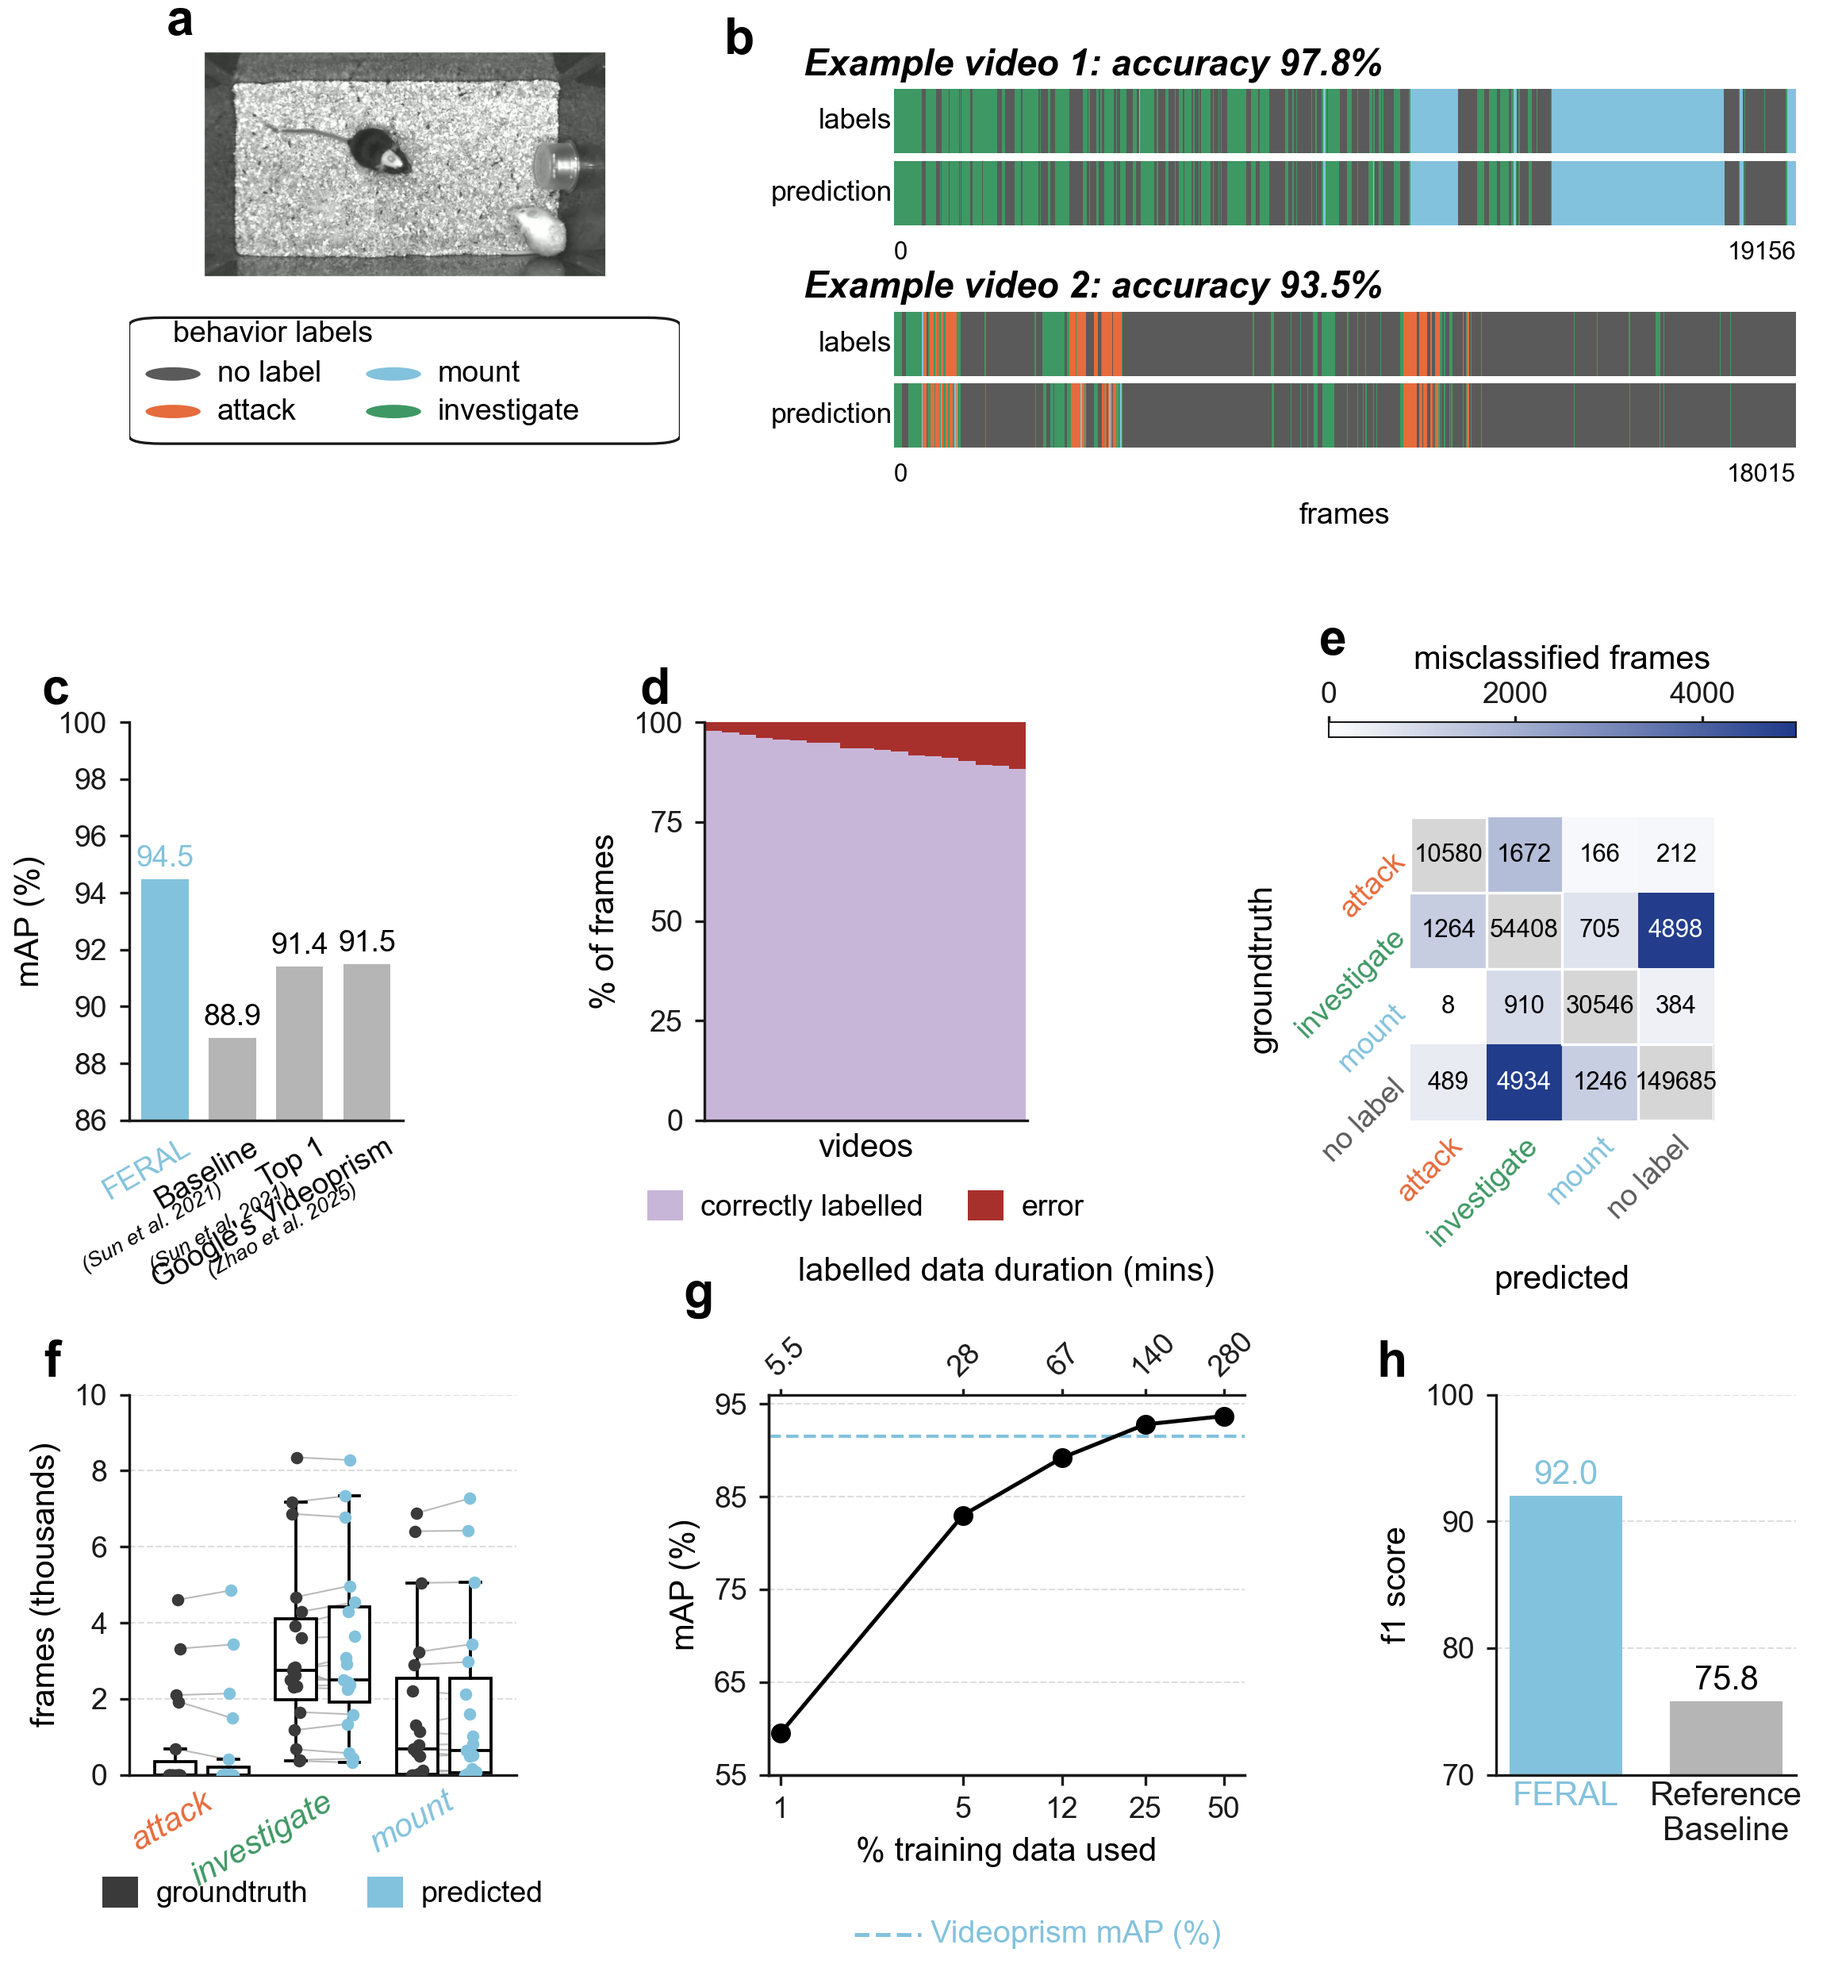
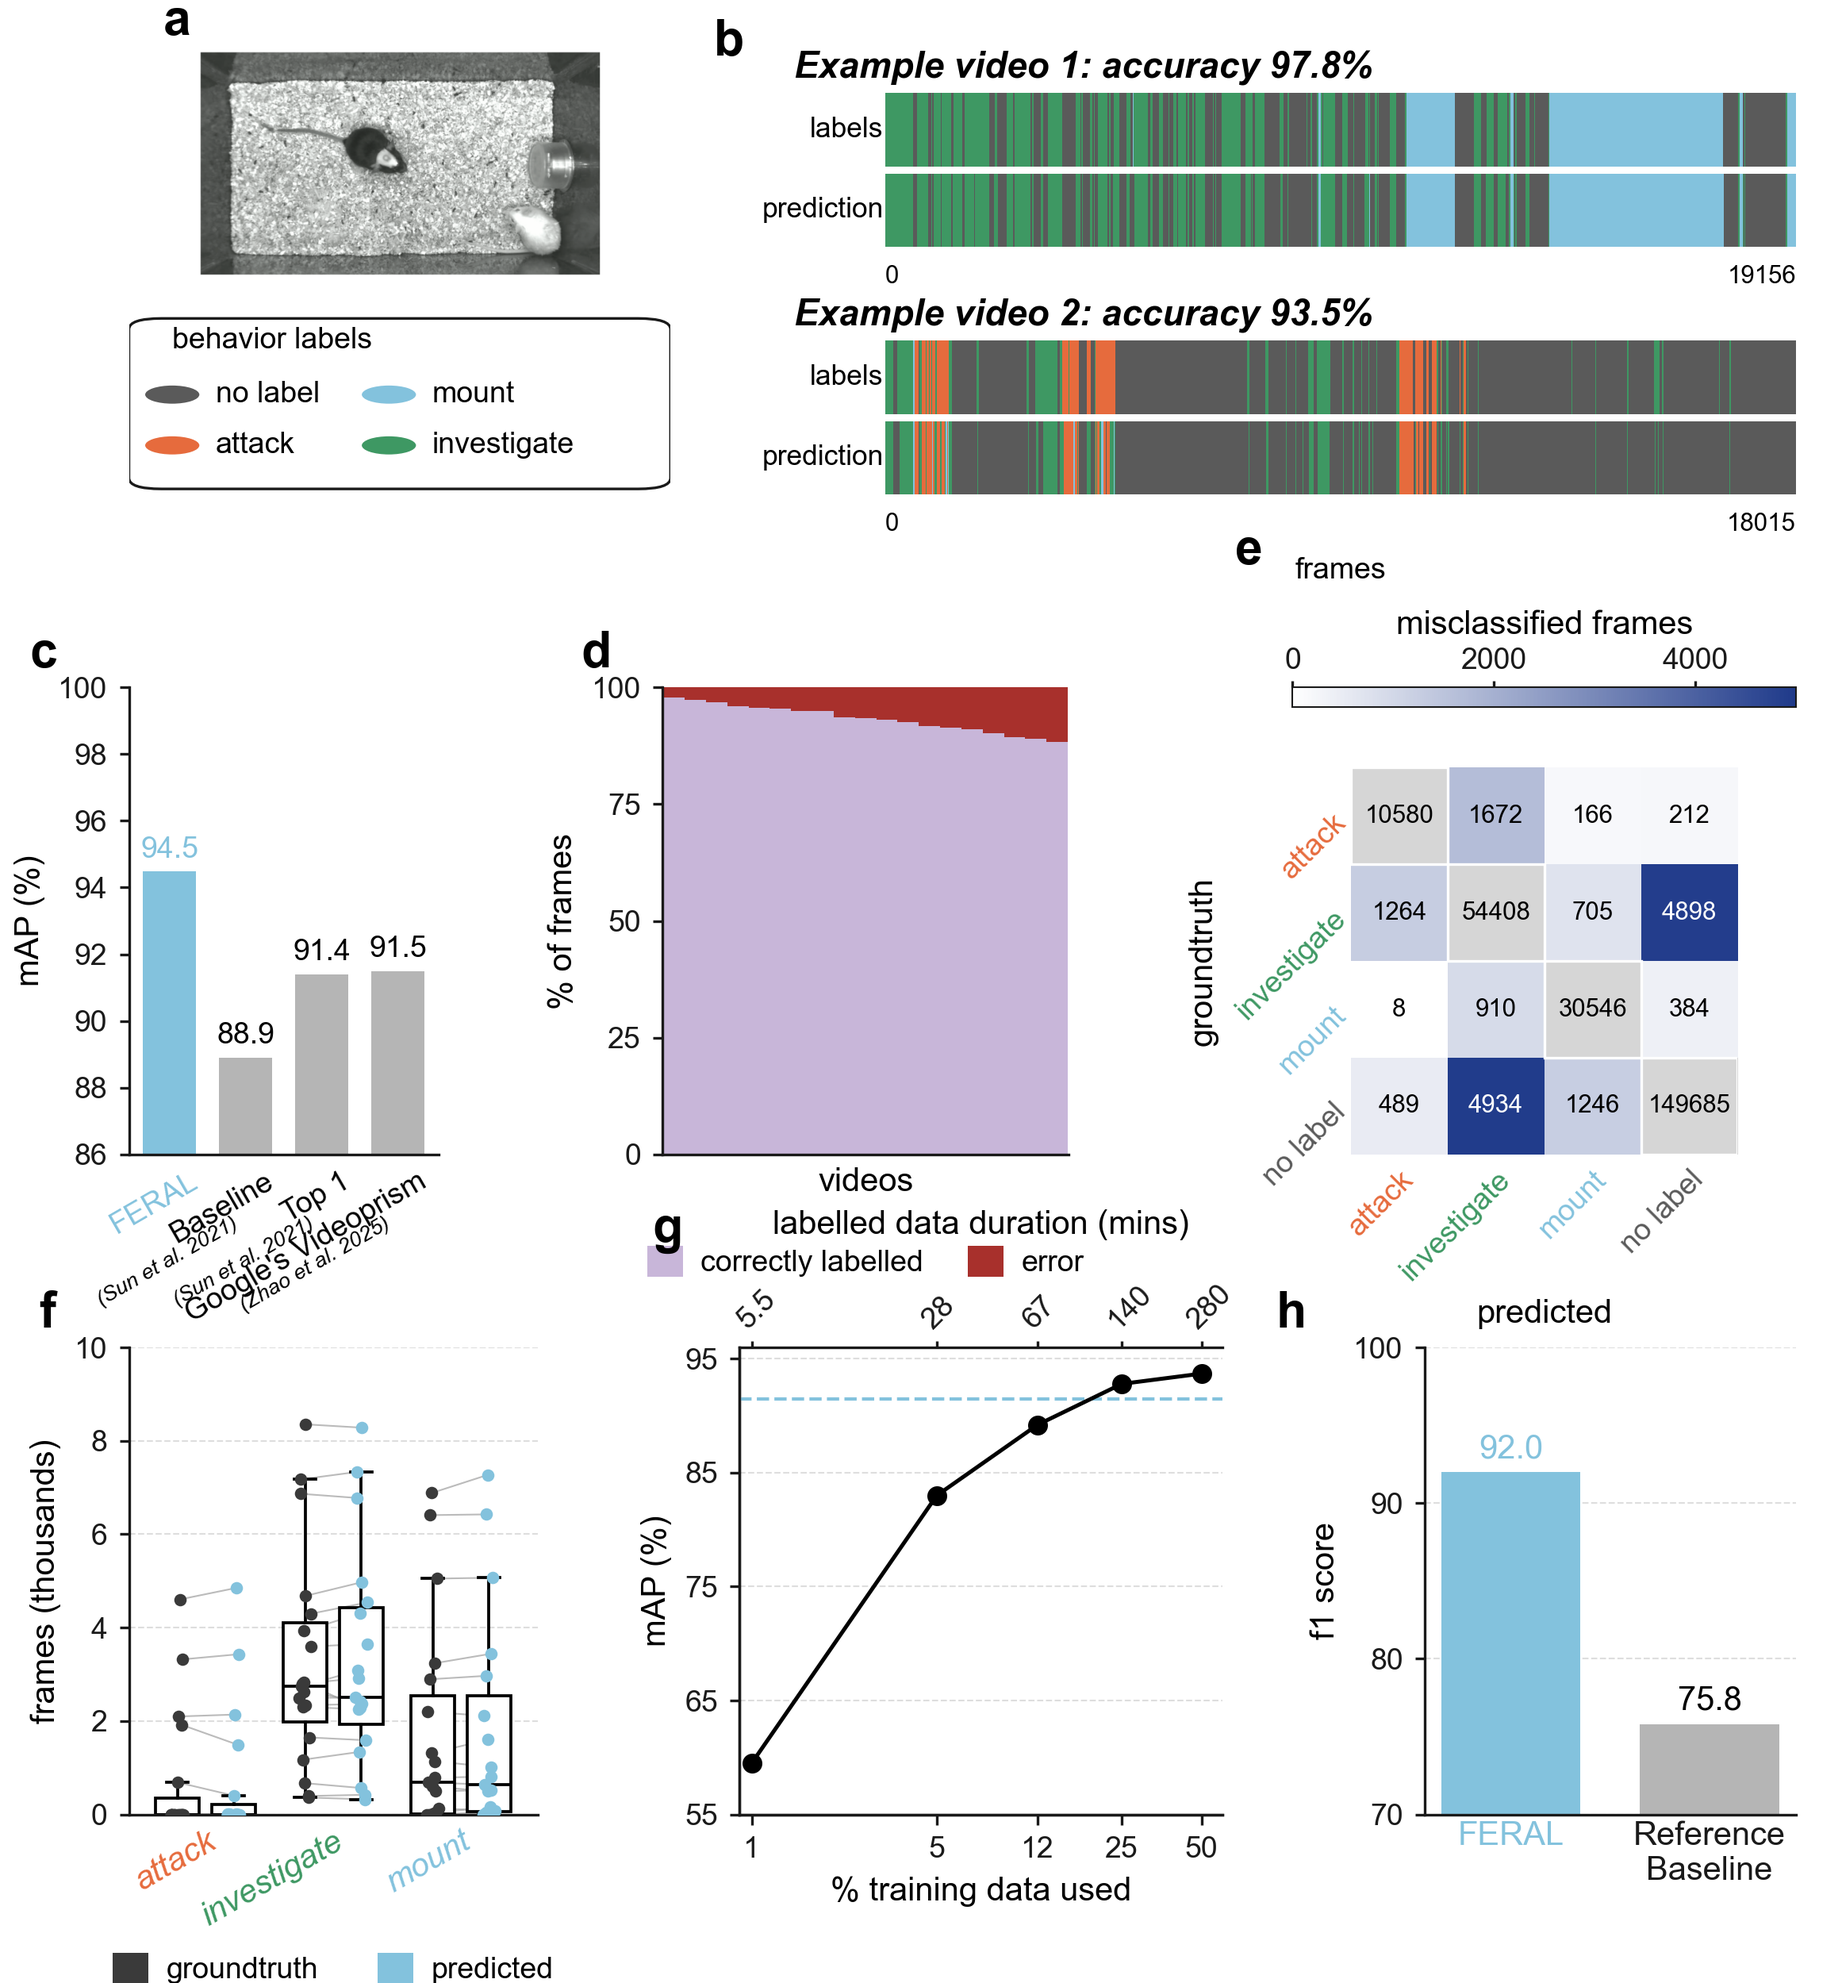
iterating to match

diff --git a/figure2/figure2.py b/figure2/figure2.py
@@ -508,35 +508,32 @@ def main(out=None):
     fig = plt.figure(figsize=(7.74, 8.33))
 
     # Master gridspec: 3 rows.
-    # Tight top/bottom margins; modest inter-row spacing because rows have
-    # their own internal labels/legends that occupy the gap.
+    # Inter-row spacing is intentionally tight — each panel handles its own
+    # caption/legend padding within its slot.
     gs = fig.add_gridspec(
-        3, 1, hspace=0.70,
-        height_ratios=[1.10, 1.10, 1.05],
-        left=0.07, right=0.975, top=0.975, bottom=0.105,
+        3, 1, hspace=0.42,
+        height_ratios=[1.00, 1.05, 1.05],
+        left=0.07, right=0.975, top=0.975, bottom=0.085,
     )
 
     # ---- Row 1: panel a (left) | panel b (right) ----
-    row1 = gs[0].subgridspec(1, 2, width_ratios=[1.0, 1.80], wspace=0.16)
+    row1 = gs[0].subgridspec(1, 2, width_ratios=[1.0, 1.85], wspace=0.16)
 
-    # Panel a: photo on top, legend below. Give photo more vertical room
-    # so its aspect ratio comes out close to the source's ~2.0.
-    a_sub = row1[0].subgridspec(2, 1, height_ratios=[1.7, 1.0], hspace=0.20)
+    # Panel a: photo on top, legend below.
+    a_sub = row1[0].subgridspec(2, 1, height_ratios=[1.25, 1.0], hspace=0.18)
     ax_photo = fig.add_subplot(a_sub[0])
     ax_legend = fig.add_subplot(a_sub[1])
     panel_a(ax_photo, ax_legend)
 
     # Panel b: two stacked groups of (title / labels / prediction).
-    # 7 rows × 2 cols: the narrow left column hosts the row-label text in
-    # its own axes (prevents the text from bleeding into adjacent strip
-    # axes — caught by _layout_check.text_intrudes_into_axes). The title
-    # spans both columns. Use 7 rows so we can leave a clear gap between
-    # video 1 and video 2.
+    # 7 rows × 2 cols. The narrow spacer row (b_sub[3, :]) separates the two
+    # videos. The narrow left column hosts row-label text (so it can't bleed
+    # into the strip axes' region — `_layout_check.text_intrudes_into_axes`).
     b_sub = row1[1].subgridspec(
         7, 2,
-        height_ratios=[0.35, 0.70, 0.70, 0.35, 0.35, 0.70, 0.70],
+        height_ratios=[0.30, 0.60, 0.60, 0.30, 0.30, 0.60, 0.60],
         width_ratios=[0.10, 1.00],
-        hspace=0.15, wspace=0.0,
+        hspace=0.12, wspace=0.0,
     )
     axes_b = [
         {"title":      fig.add_subplot(b_sub[0, :]),
@@ -550,16 +547,15 @@ def main(out=None):
          "pred_label": fig.add_subplot(b_sub[6, 0]),
          "pred":       fig.add_subplot(b_sub[6, 1])},
     ]
-    # Hide the spacer row (b_sub[3, :]) — nothing renders there.
     panel_b(axes_b, data)
 
     # ---- Row 2: c | d | e+colorbar ----
-    row2 = gs[1].subgridspec(1, 3, width_ratios=[0.85, 1.00, 1.45],
-                             wspace=0.85)
+    row2 = gs[1].subgridspec(1, 3, width_ratios=[0.80, 1.05, 1.30],
+                             wspace=0.55)
     ax_c = fig.add_subplot(row2[0])
     ax_d = fig.add_subplot(row2[1])
     # Panel e with a small colorbar slot on top.
-    e_sub = row2[2].subgridspec(2, 1, height_ratios=[0.05, 1.0], hspace=0.50)
+    e_sub = row2[2].subgridspec(2, 1, height_ratios=[0.05, 1.0], hspace=0.30)
     cax_e = fig.add_subplot(e_sub[0])
     ax_e = fig.add_subplot(e_sub[1])
     panel_c(ax_c, data)
@@ -567,8 +563,8 @@ def main(out=None):
     panel_e(ax_e, data, cax_e)
 
     # ---- Row 3: f | g | h ----
-    row3 = gs[2].subgridspec(1, 3, width_ratios=[1.1, 1.35, 0.85],
-                             wspace=0.65)
+    row3 = gs[2].subgridspec(1, 3, width_ratios=[1.10, 1.30, 1.00],
+                             wspace=0.48)
     ax_f = fig.add_subplot(row3[0])
     ax_g = fig.add_subplot(row3[1])
     ax_h = fig.add_subplot(row3[2])

diff --git a/figure4/figure4.py b/figure4/figure4.py
@@ -251,7 +251,7 @@ def panel_c(ax, data):
 # ---------------------------------------------------------------------------
 def panel_d(ax, data):
     """Paired boxplots vigilant / out_of_sight, gt vs predicted (frames)."""
-    panel_label(ax, "d", x=-0.32, y=1.05, fontsize=12)
+    panel_label(ax, "d", x=-0.18, y=1.05, fontsize=12)
 
     behaviors = [2, 1]  # vigilant (label idx 2), out_of_sight (idx 1)
     display = {2: "vigilant", 1: "out of sight"}
@@ -589,9 +589,9 @@ def main(out=None):
     #   TOP: two-column grid — LEFT [a, c, d] stacked; RIGHT [b, e] stacked
     #   BOTTOM: three rows stacked — f (full width), g (full width), h (full width)
     outer = fig.add_gridspec(
-        2, 1, hspace=0.12,
+        2, 1, hspace=0.10,
         height_ratios=[1.60, 1.55],
-        left=0.075, right=0.96, top=0.975, bottom=0.030,
+        left=0.075, right=0.935, top=0.975, bottom=0.030,
     )
 
     # ============================================================
@@ -599,12 +599,12 @@ def main(out=None):
     # Two columns: LEFT [a, c, d], RIGHT [b, e]
     # ============================================================
     top = outer[0].subgridspec(
-        1, 2, width_ratios=[1.0, 1.55], wspace=0.32,
+        1, 2, width_ratios=[1.05, 1.45], wspace=0.22,
     )
 
     # --- LEFT column: a (top, thumbnails) / c (middle, bar) / d (bottom, box) ---
     left = top[0].subgridspec(
-        3, 1, height_ratios=[0.85, 1.00, 1.10], hspace=0.65,
+        3, 1, height_ratios=[0.95, 1.00, 1.05], hspace=0.45,
     )
 
     # Panel a: legend dots row + thumbnails row (one axes per thumbnail
@@ -623,13 +623,13 @@ def main(out=None):
 
     # --- RIGHT column: b (top, two ethogram videos) / e (bottom, behavior grid) ---
     right = top[1].subgridspec(
-        2, 1, height_ratios=[0.85, 2.10], hspace=0.30,
+        2, 1, height_ratios=[0.85, 2.10], hspace=0.18,
     )
 
     b_sub = right[0].subgridspec(
         8, 1,
-        height_ratios=[0.28, 0.42, 0.42, 0.22, 0.55, 0.42, 0.42, 0.22],
-        hspace=0.40,
+        height_ratios=[0.28, 0.42, 0.42, 0.22, 0.40, 0.42, 0.42, 0.22],
+        hspace=0.28,
     )
     axes_b = {
         "t1": fig.add_subplot(b_sub[0]),
@@ -651,13 +651,13 @@ def main(out=None):
     # Two rows: f (full width) on top; g | h side-by-side on bottom
     # ============================================================
     bottom = outer[1].subgridspec(
-        2, 1, height_ratios=[1.00, 1.00], hspace=0.65,
+        2, 1, height_ratios=[0.90, 1.05], hspace=0.45,
     )
 
     ax_f = fig.add_subplot(bottom[0])
     panel_f(ax_f, monkeys)
 
-    bottom_row = bottom[1].subgridspec(1, 2, width_ratios=[1.5, 1.0], wspace=0.40)
+    bottom_row = bottom[1].subgridspec(1, 2, width_ratios=[1.50, 1.00], wspace=0.28)
     ax_g = fig.add_subplot(bottom_row[0])
     ax_h = fig.add_subplot(bottom_row[1])
     panel_g(ax_g, monkeys)

diff --git a/figure5/figure5.py b/figure5/figure5.py
@@ -588,21 +588,21 @@ def main(out=None):
     # Master 3-row gridspec
     gs = fig.add_gridspec(
         3, 1,
-        height_ratios=[1.85, 1.20, 1.55],
-        hspace=0.42,
+        height_ratios=[1.95, 1.25, 1.45],
+        hspace=0.30,
         left=0.08, right=0.97, top=0.96, bottom=0.14,
     )
 
     # ---- Row 1: panel a (left), panel b (right) ----
-    row1 = gs[0].subgridspec(1, 2, width_ratios=[1.0, 1.95], wspace=0.25)
+    row1 = gs[0].subgridspec(1, 2, width_ratios=[1.15, 1.85], wspace=0.18)
 
     # Panel a: two stacked (dot-header + image) rows.
     # Image rows need enough height so the 2:1 wide petri photos render at
     # natural aspect inside the rounded gray boxes (matches source look).
     a_sub = row1[0].subgridspec(
         4, 1,
-        height_ratios=[0.22, 1.0, 0.25, 1.0],
-        hspace=0.20,
+        height_ratios=[0.16, 1.0, 0.18, 1.0],
+        hspace=0.10,
     )
     ax_a_top_dot = fig.add_subplot(a_sub[0])
     ax_a_top_img = fig.add_subplot(a_sub[1])
@@ -624,11 +624,12 @@ def main(out=None):
 
     # ---- Row 2: panel c (left thumb | matrix | cbar | right thumb) ----
     # Want the colorbar to sit RIGHT NEXT TO the matrix (tight), with the
-    # right thumbnail separated by a larger gap.
+    # right thumbnail separated by a larger gap. Thumbnails are pushed wider
+    # so they hug the figure edges (matches source).
     row2 = gs[1].subgridspec(
         1, 4,
-        width_ratios=[0.80, 1.55, 0.08, 0.80],
-        wspace=0.18,
+        width_ratios=[1.00, 1.40, 0.07, 1.00],
+        wspace=0.15,
     )
     ax_c_left  = fig.add_subplot(row2[0])
     ax_c_cm    = fig.add_subplot(row2[1])
